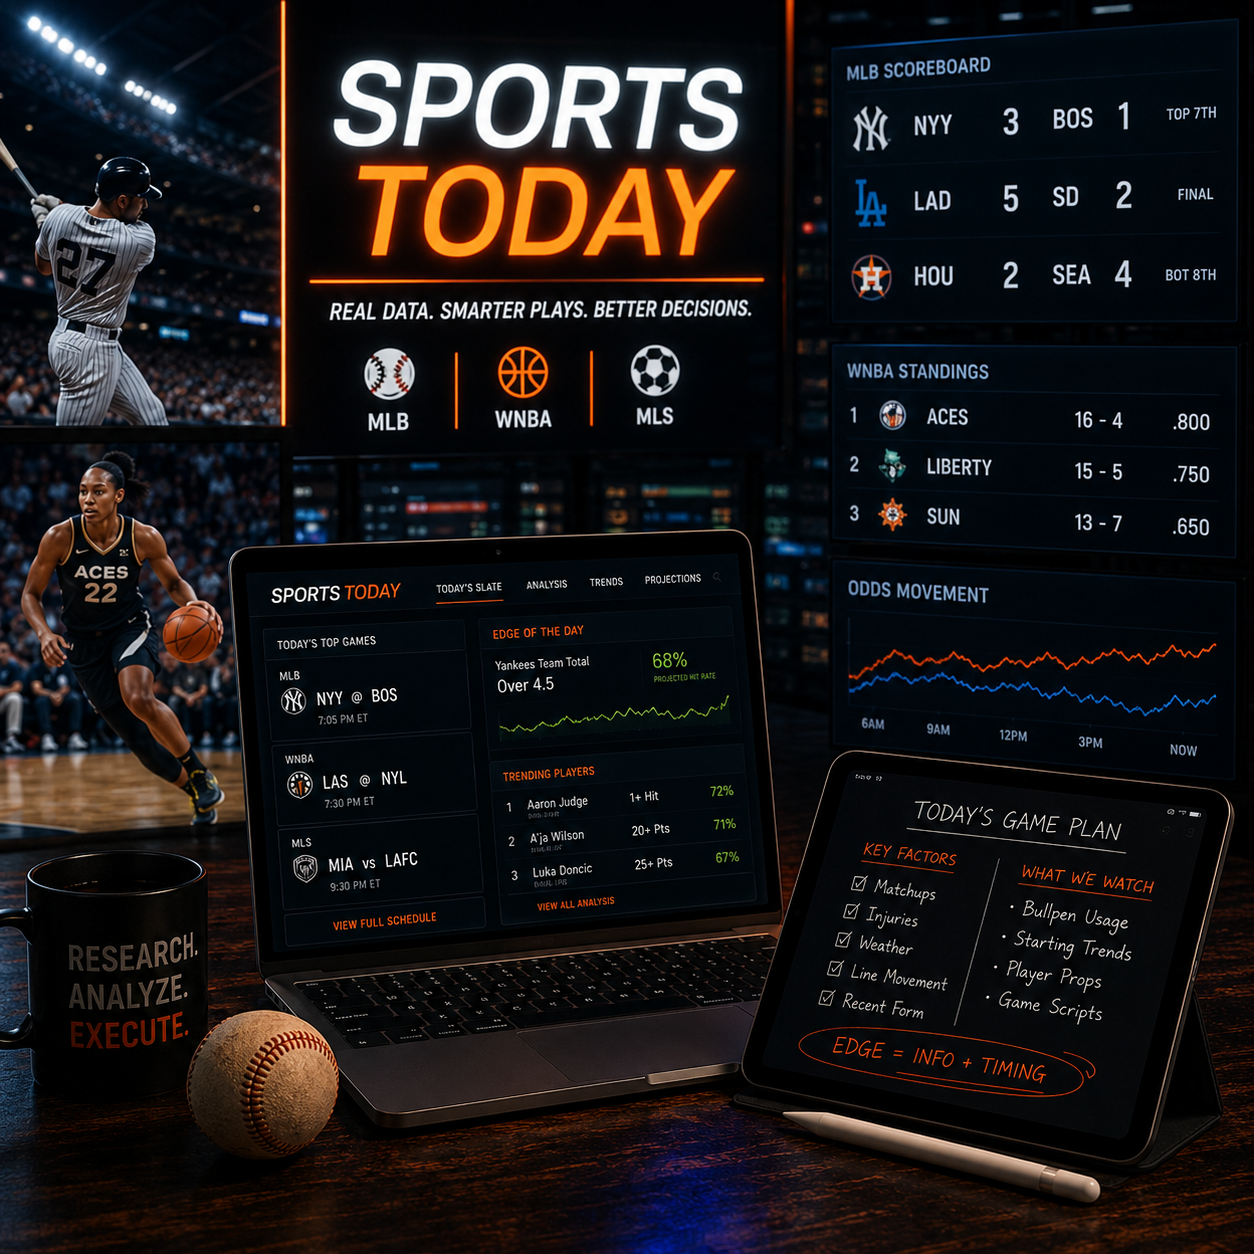
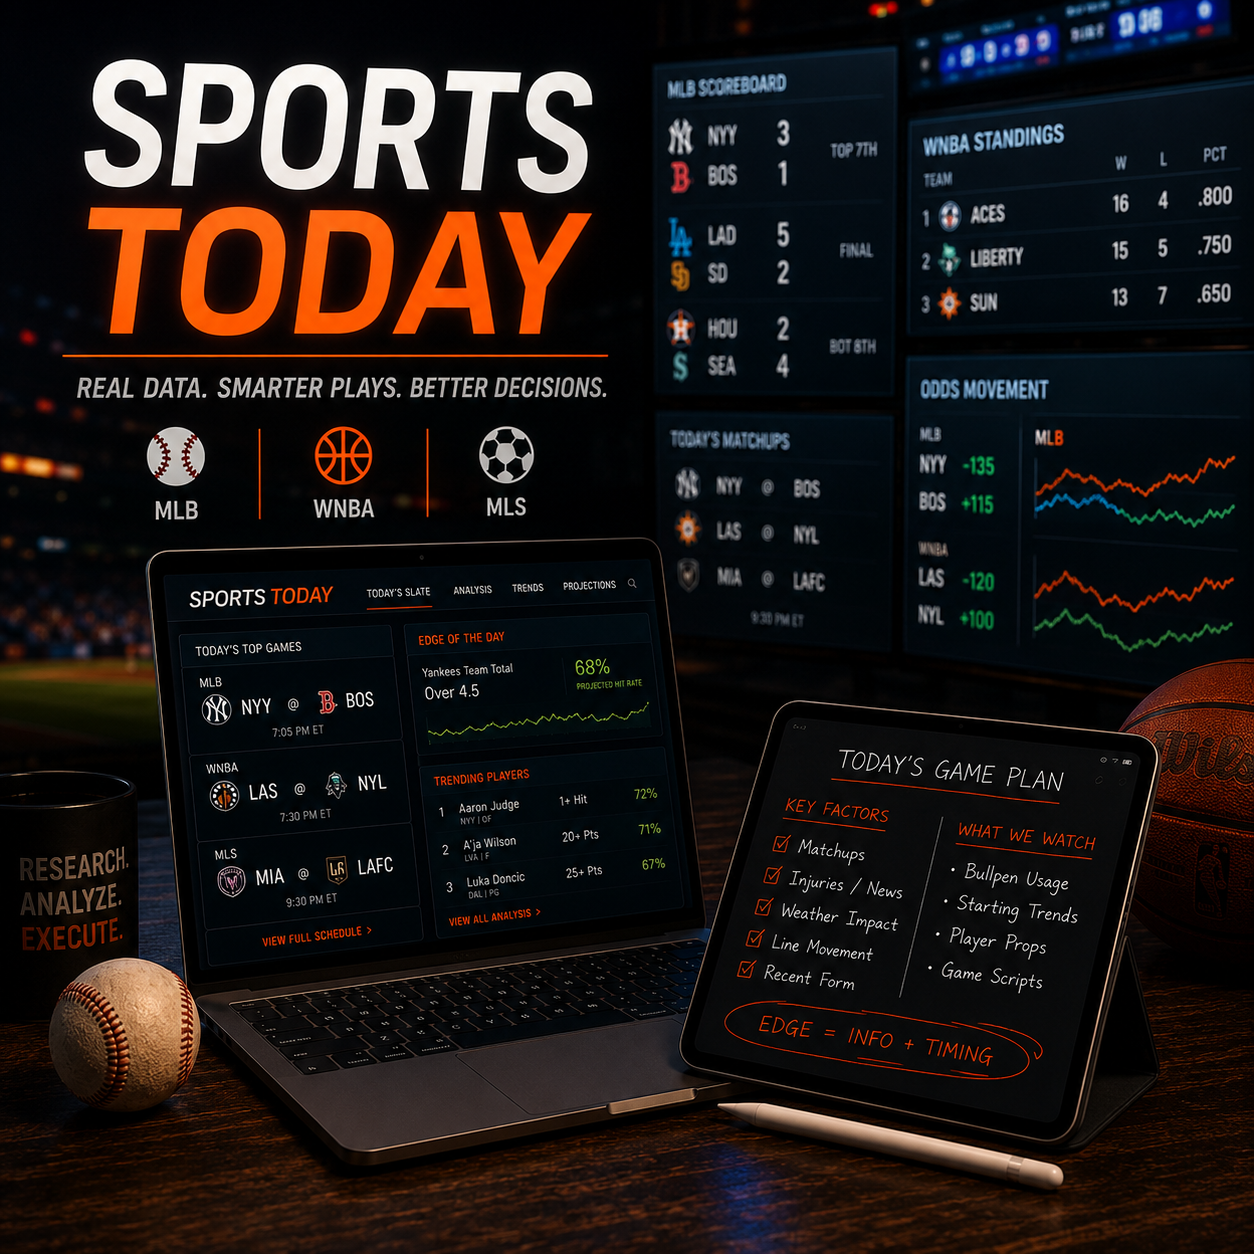
Switch featured projects to portrait cards; reorder and add Concert Atlas link
Refresh the Featured Projects grid per the card layout spec: artwork moves to
the top of the card as a full-width 4:3 block (~72% of card height) with a
compact content area beneath, and the blue Launch button becomes a plain
accent-blue text link so the image leads.

- Grid is now repeat(auto-fit,minmax(300px,1fr)) instead of a fixed 2 columns
- Add a 3% thumbnail zoom to the existing hover lift
- Reorder: Sports Today, Espinosa Clubhouse, {insert witty name here},
  A New Dynasty, My Concert Atlas, World Cup Family HQ
- Set the live My Concert Atlas URL
- Trim descriptions to one sentence each
- Swap the {insert witty name here} thumbnail to 25_FFL_2.png, which holds up
  better in the narrower crop (left center keeps the headline in frame)

diff --git a/streamlit_app.py b/streamlit_app.py
@@ -16,21 +16,12 @@ FANTASY_APP_URL    = "https://insertwittynamehere.streamlit.app"
 DYNASTY_APP_URL    = "https://anewdynasty.streamlit.app"
 CLUBHOUSE_APP_URL  = "https://espinosaffl.streamlit.app"
 SPORTS_TODAY_URL   = "PASTE_SPORTS_TODAY_URL_HERE"
-CONCERT_ATLAS_URL  = "PASTE_CONCERT_ATLAS_URL_HERE"
+CONCERT_ATLAS_URL  = "https://show-history-archive.sme327.chatgpt.site"
 
 PROJECTS = [
     {
-        "title":       "My Concert Atlas",
-        "description": "A visual journey through where the music has taken me.",
-        "url":         CONCERT_ATLAS_URL,
-        "thumbnail":   "assets/concert_atlas.png",
-        "icon":        "🎵",
-        "obj_pos":     "center center",
-        "fallback_gradient": "linear-gradient(160deg, #1a0a2a 0%, #3d1a5c 45%, #1a0a2a 100%)",
-    },
-    {
         "title":       "Sports Today",
-        "description": "A daily sports companion that answers one question: what's worth paying attention to today?",
+        "description": "A daily read on what's worth watching in sports.",
         "url":         SPORTS_TODAY_URL,
         "thumbnail":   "assets/sports_today.png",
         "icon":        "📊",
@@ -38,17 +29,8 @@ PROJECTS = [
         "fallback_gradient": "linear-gradient(160deg, #1a0d00 0%, #4a2400 45%, #1a0d00 100%)",
     },
     {
-        "title":       "World Cup Family HQ",
-        "description": "Our family's World Cup central hub. Pools, passports, match tracking, leaderboards, and more.",
-        "url":         WORLD_CUP_APP_URL,
-        "thumbnail":   "assets/worldcup_hq_image.png",
-        "icon":        "⚽",
-        "obj_pos":     "center center",
-        "fallback_gradient": "linear-gradient(160deg, #0a2010 0%, #1a4a20 45%, #0d3515 100%)",
-    },
-    {
         "title":       "Espinosa FFL Clubhouse",
-        "description": "The Espinosa family fantasy football hub. Champions hall, rivalry room, season archive, and more.",
+        "description": "The Espinosa family fantasy football hub.",
         "url":         CLUBHOUSE_APP_URL,
         "thumbnail":   "assets/espinosa_ffl2.png",
         "icon":        "🏠",
@@ -57,21 +39,39 @@ PROJECTS = [
     },
     {
         "title":       "{insert witty name here} FFL Museum",
-        "description": "Explore 25 seasons of league history, analytics, records, and memories.",
+        "description": "25 seasons of league history, records, and memories.",
         "url":         FANTASY_APP_URL,
-        "thumbnail":   "assets/25_FFL.png",
+        "thumbnail":   "assets/25_FFL_2.png",
         "icon":        "🏈",
-        "obj_pos":     "center center",
+        "obj_pos":     "left center",
         "fallback_gradient": "linear-gradient(160deg, #1a0800 0%, #3d1500 45%, #1a0800 100%)",
     },
     {
         "title":       "A New Dynasty FFL Museum",
-        "description": "A second league, a new chapter. Track history, rivalries, and records.",
+        "description": "Keeper league history, rivalries, and records.",
         "url":         DYNASTY_APP_URL,
         "thumbnail":   "assets/FFL_AND.png",
         "icon":        "🏆",
         "obj_pos":     "center center",
         "fallback_gradient": "linear-gradient(160deg, #0a0a2a 0%, #1a1a4a 45%, #0a0a2a 100%)",
+    },
+    {
+        "title":       "My Concert Atlas",
+        "description": "Every show I've been to, mapped by band, venue, and year.",
+        "url":         CONCERT_ATLAS_URL,
+        "thumbnail":   "assets/concert_atlas.png",
+        "icon":        "🎵",
+        "obj_pos":     "center center",
+        "fallback_gradient": "linear-gradient(160deg, #1a0a2a 0%, #3d1a5c 45%, #1a0a2a 100%)",
+    },
+    {
+        "title":       "World Cup Family HQ",
+        "description": "Our family's hub for the 2026 World Cup.",
+        "url":         WORLD_CUP_APP_URL,
+        "thumbnail":   "assets/worldcup_hq_image.png",
+        "icon":        "⚽",
+        "obj_pos":     "center center",
+        "fallback_gradient": "linear-gradient(160deg, #0a2010 0%, #1a4a20 45%, #0d3515 100%)",
     },
 ]
 
@@ -113,19 +113,18 @@ def project_card_html(p: dict) -> str:
             f'{p["icon"]}</div>'
         )
 
-    disabled   = p["url"].startswith("PASTE")
-    btn_href   = "#" if disabled else p["url"]
-    btn_target = "" if disabled else 'target="_blank" rel="noopener noreferrer"'
-    btn_bg     = "background:#4a6fa5;cursor:not-allowed;" if disabled else "background:#2d7ef8;"
+    disabled    = p["url"].startswith("PASTE")
+    link_href   = "#" if disabled else p["url"]
+    link_target = "" if disabled else 'target="_blank" rel="noopener noreferrer"'
+    link_cls    = "proj-link disabled" if disabled else "proj-link"
 
     return f"""
 <div class="proj-card">
   <div class="proj-thumb">{thumb}</div>
   <div class="proj-body">
-    <div class="proj-icon">{p["icon"]}</div>
-    <div class="proj-title">{p["title"]}</div>
+    <div class="proj-title"><span class="proj-icon">{p["icon"]}</span>{p["title"]}</div>
     <div class="proj-desc">{p["description"]}</div>
-    <a href="{btn_href}" {btn_target} class="proj-btn" style="{btn_bg}">Launch App →</a>
+    <a href="{link_href}" {link_target} class="{link_cls}">Launch App →</a>
   </div>
 </div>"""
 
@@ -220,12 +219,16 @@ body,.stMarkdown p,.stMarkdown div,.stMarkdown span{{
 /* ══════════════════════════════════════════════════════
    PROJECT CARDS
 ══════════════════════════════════════════════════════ */
-.proj-grid{{display:grid;grid-template-columns:1fr 1fr;gap:20px;padding-bottom:0;}}
+.proj-grid{{
+  display:grid;
+  grid-template-columns:repeat(auto-fit,minmax(300px,1fr));
+  gap:22px;padding-bottom:0;
+}}
 .proj-card{{
   background:rgba(12,20,38,0.97);
   border:1px solid rgba(59,130,246,0.22);
   border-radius:16px;overflow:hidden;
-  display:flex;height:260px;
+  display:flex;flex-direction:column;
   transition:border-color .3s,transform .25s,box-shadow .3s;
   backdrop-filter:blur(12px);-webkit-backdrop-filter:blur(12px);
 }}
@@ -234,22 +237,30 @@ body,.stMarkdown p,.stMarkdown div,.stMarkdown span{{
   transform:translateY(-3px);
   box-shadow:0 24px 64px rgba(0,0,0,0.5),0 0 0 1px rgba(59,130,246,0.15);
 }}
-.proj-thumb{{flex:0 0 48%;position:relative;overflow:hidden;}}
+/* Artwork sits on top and dominates the card (~70-75% of its height) */
+.proj-thumb{{position:relative;width:100%;aspect-ratio:4/3;overflow:hidden;}}
+.proj-thumb img{{transition:transform .45s ease;}}
+.proj-card:hover .proj-thumb img{{transform:scale(1.03);}}
 .proj-body{{
-  flex:1;padding:26px 26px 22px;
+  flex:1;padding:16px 18px 18px;
   display:flex;flex-direction:column;
 }}
-.proj-icon{{font-size:20px;margin-bottom:10px;}}
-.proj-title{{font-size:20px;font-weight:700;color:#fff;margin-bottom:10px;line-height:1.25;}}
-.proj-desc{{font-size:13.5px;color:#94a3b8;line-height:1.6;flex-grow:1;margin-bottom:18px;}}
-.proj-btn{{
-  display:inline-flex;align-items:center;gap:8px;
-  color:#fff!important;text-decoration:none!important;
-  font-size:14px;font-weight:700;padding:10px 22px;
-  border-radius:8px;width:fit-content;letter-spacing:0.2px;
-  transition:filter .2s,transform .15s;
+.proj-icon{{font-size:15px;flex-shrink:0;}}
+.proj-title{{
+  display:flex;align-items:baseline;gap:8px;
+  font-size:16px;font-weight:700;color:#fff;
+  margin-bottom:6px;line-height:1.3;
 }}
-.proj-btn:hover{{filter:brightness(1.2);transform:translateX(3px);}}
+.proj-desc{{font-size:13px;color:#94a3b8;line-height:1.5;margin-bottom:14px;}}
+.proj-link{{
+  margin-top:auto;
+  display:inline-flex;align-items:center;width:fit-content;
+  color:#3b82f6!important;text-decoration:none!important;
+  font-size:13.5px;font-weight:600;letter-spacing:0.2px;
+  transition:color .2s,transform .15s;
+}}
+.proj-link:hover{{color:#60a5fa!important;transform:translateX(3px);}}
+.proj-link.disabled{{color:#64748b!important;cursor:not-allowed;pointer-events:none;}}
 
 /* ══════════════════════════════════════════════════════
    GENERAL SECTION (coming soon, etc.)
@@ -302,14 +313,10 @@ body,.stMarkdown p,.stMarkdown div,.stMarkdown span{{
    RESPONSIVE
 ══════════════════════════════════════════════════════ */
 @media(max-width:1024px){{
-  .proj-grid{{grid-template-columns:1fr;}}
-  .proj-card{{height:auto;min-height:220px;}}
   .proj-section{{margin-top:-60px;}}
 }}
 @media(max-width:960px){{
   .cs-grid{{grid-template-columns:1fr 1fr;}}
-  .proj-card{{flex-direction:column;}}
-  .proj-thumb{{flex:0 0 200px;}}
   .hero-title{{font-size:60px;}}
   .hero{{height:460px;}}
   .hero-content{{padding-top:60px;}}

diff --git a/CLAUDE.md b/CLAUDE.md
@@ -23,7 +23,8 @@ the emotional anchor of the page. Visual reference: `example.png` in the repo ro
 handles secondary links (GitHub, LinkedIn, email). Do not add a nav bar back.
 
 1. **Hero** — full-width Seattle image (550px tall), title + tagline in upper-left
-2. **Featured Projects** — 2-column card grid, floats 115px over the hero bottom
+2. **Featured Projects** — auto-fitting grid of portrait cards, floats 115px over
+   the hero bottom
 3. **More Projects Coming Soon** — auto-sizing row of dashed placeholder cards
 4. **Footer** — centered, minimal icon links
 
@@ -35,14 +36,22 @@ handles secondary links (GitHub, LinkedIn, email). Do not add a nav bar back.
   and Rainier are visible in the middle and bottom of the image.
 - **Cards float over the hero** via `margin-top: -115px` on `.proj-section`. Do
   not remove this — it's what gives the page its layered, cinematic feel.
-- **Cards are large horizontal panels** — thumbnail fills the left 48%, text
-  fills the right 52%. Fixed height of 260px on desktop.
+- **Cards are portrait panels — artwork on top, text below.** The thumbnail is a
+  full-width `4/3` block (~70–75% of the card) with the content area beneath it.
+  Do not go back to the side-by-side landscape layout.
+- **The artwork is the primary focus.** Content area stays compact: one title
+  line (emoji + name), a one-sentence description, and the launch link. No
+  paragraph-length copy, no large empty padding under the text.
+- **Launch is a plain text link, not a button** — accent blue `#3b82f6`, 13.5px,
+  no background or outline. It should read as secondary to the image.
+- **Grid is `repeat(auto-fit,minmax(300px,1fr))`** — never hardcode a column
+  count. Cards wrap on available width (≈4 desktop, 2 tablet, 1 mobile).
 - **Coming soon cards** use dashed borders and muted styling — they should feel
   like honest placeholders, not broken features.
 - **Hover effects** on project cards: subtle lift (`translateY(-3px)`) +
-  brightened border + box shadow.
-- **Button text is "Launch App →"** — do not change back to "Open App".
-- **Disabled buttons** (URL set to `"PASTE_..._HERE"`) render grey automatically.
+  brightened border + box shadow + 3% zoom on the thumbnail.
+- **Link text is "Launch App →"** — do not change back to "Open App".
+- **Disabled links** (URL set to `"PASTE_..._HERE"`) render grey automatically.
 
 ---
 
@@ -75,12 +84,12 @@ Listed in render order:
 
 | Title | Notes |
 |---|---|
-| My Concert Atlas | Personal concert history — every show attended, by band/venue/year/state. Source data: `~/Documents/Projects/concert history`. Distinct from the Seattle Concert Finder placeholder below. Thumbnail + URL pending. |
 | Sports Today | Daily sports companion (MLB/WNBA opportunities). URL still pending. |
-| World Cup Family HQ | 2026 FIFA World Cup family tracker |
 | Espinosa FFL Clubhouse | Family fantasy football hub |
 | {insert witty name here} FFL Museum | **This is the real league name** — 25-year history. Not a placeholder. |
 | A New Dynasty FFL Museum | Keeper/dynasty league, est. 2016 |
+| My Concert Atlas | Personal concert history — every show attended, by band/venue/year/state. Source data: `~/Documents/Projects/concert history`. Distinct from the Seattle Concert Finder placeholder below. |
+| World Cup Family HQ | 2026 FIFA World Cup family tracker |
 
 Coming soon: **Fantasy League 3**, **Seattle Concert Finder**
 
@@ -91,12 +100,12 @@ Coming soon: **Fantasy League 3**, **Seattle Concert Finder**
 1. Add URL constant at the top of `streamlit_app.py`
 2. Add dict to `PROJECTS` list (see README for field reference)
 3. Drop thumbnail in `assets/` — wide crop, keep under ~500KB
-4. Set `obj_pos` to position the crop (e.g. `"center top"` to show the top
-   of the image rather than the center)
-5. If URL isn't ready, set it to `"PASTE_..._HERE"` — button auto-disables
+4. Set `obj_pos` to position the crop — the thumbnail is cropped to `4/3`, so
+   keep the focal point in frame (e.g. `"center top"`, `"left center"`)
+5. If URL isn't ready, set it to `"PASTE_..._HERE"` — link auto-disables
 
-The grid is 2 columns on desktop. Cards flow into additional rows naturally —
-no layout changes needed when adding a 5th or 6th card.
+The grid auto-fits, so cards flow into additional rows on their own — no layout
+changes are needed when adding a 7th or 8th card.
 
 ---
 

diff --git a/README.md b/README.md
@@ -15,16 +15,16 @@ streamlit run streamlit_app.py
 
 ## Current Projects
 
-Cards render in this order (2-column grid, left to right):
+Cards render in this order (auto-fitting grid, left to right):
 
 | Card | URL Variable | Live URL |
 |---|---|---|
-| My Concert Atlas | `CONCERT_ATLAS_URL` | _not set — button disabled_ |
-| Sports Today | `SPORTS_TODAY_URL` | _not set — button disabled_ |
-| World Cup Family HQ | `WORLD_CUP_APP_URL` | espinosa-world-cup.streamlit.app |
+| Sports Today | `SPORTS_TODAY_URL` | _not set — link disabled_ |
 | Espinosa FFL Clubhouse | `CLUBHOUSE_APP_URL` | espinosaffl.streamlit.app |
 | {insert witty name here} FFL Museum | `FANTASY_APP_URL` | insertwittynamehere.streamlit.app |
 | A New Dynasty FFL Museum | `DYNASTY_APP_URL` | anewdynasty.streamlit.app |
+| My Concert Atlas | `CONCERT_ATLAS_URL` | show-history-archive.sme327.chatgpt.site |
+| World Cup Family HQ | `WORLD_CUP_APP_URL` | espinosa-world-cup.streamlit.app |
 
 Coming soon placeholders: **Fantasy League 3**, **Seattle Concert Finder**
 
@@ -41,7 +41,7 @@ Add an entry to the `PROJECTS` list in `streamlit_app.py`:
     "url":         MY_APP_URL,            # define at the top of the file
     "thumbnail":   "assets/my_app.png",  # drop image in assets/
     "icon":        "🔥",                 # fallback if image is missing
-    "obj_pos":     "center center",      # CSS object-position for thumbnail crop
+    "obj_pos":     "center center",      # CSS object-position for the 4:3 crop
     "fallback_gradient": "linear-gradient(160deg, #100010 0%, #2d002d 100%)",
 },
 ```
@@ -52,8 +52,9 @@ Then define the URL constant at the top of the file alongside the others:
 MY_APP_URL = "https://my-app.streamlit.app"
 ```
 
-Drop a thumbnail image into `assets/` (wide crop, ~1200×600 recommended). The card
-handles missing images gracefully with the gradient fallback.
+Drop a thumbnail image into `assets/`. Thumbnails are cropped to `4/3` at the top
+of the card, so a roughly 4:3–3:2 source works best (~1200×900). The card handles
+missing images gracefully with the gradient fallback.
 
 To add a Coming Soon placeholder instead, append to `COMING_SOON`.
 
@@ -64,10 +65,12 @@ To add a Coming Soon placeholder instead, append to `COMING_SOON`.
 | File | Used by |
 |---|---|
 | `assets/seattle_hero.png` | Hero background (wide, 1920×800+ recommended) |
-| `assets/worldcup_hq_image.png` | World Cup card thumbnail |
+| `assets/sports_today.png` | Sports Today thumbnail |
 | `assets/espinosa_ffl2.png` | Espinosa FFL Clubhouse thumbnail |
-| `assets/25_FFL.png` | {insert witty name here} FFL Museum thumbnail |
+| `assets/25_FFL_2.png` | {insert witty name here} FFL Museum thumbnail |
 | `assets/FFL_AND.png` | A New Dynasty FFL Museum thumbnail |
+| `assets/concert_atlas.png` | My Concert Atlas thumbnail |
+| `assets/worldcup_hq_image.png` | World Cup card thumbnail |
 
 All images are base64-encoded at runtime — no CDN needed. Missing images fall
 back to CSS gradients automatically. Keep thumbnails under ~500KB to avoid slow
